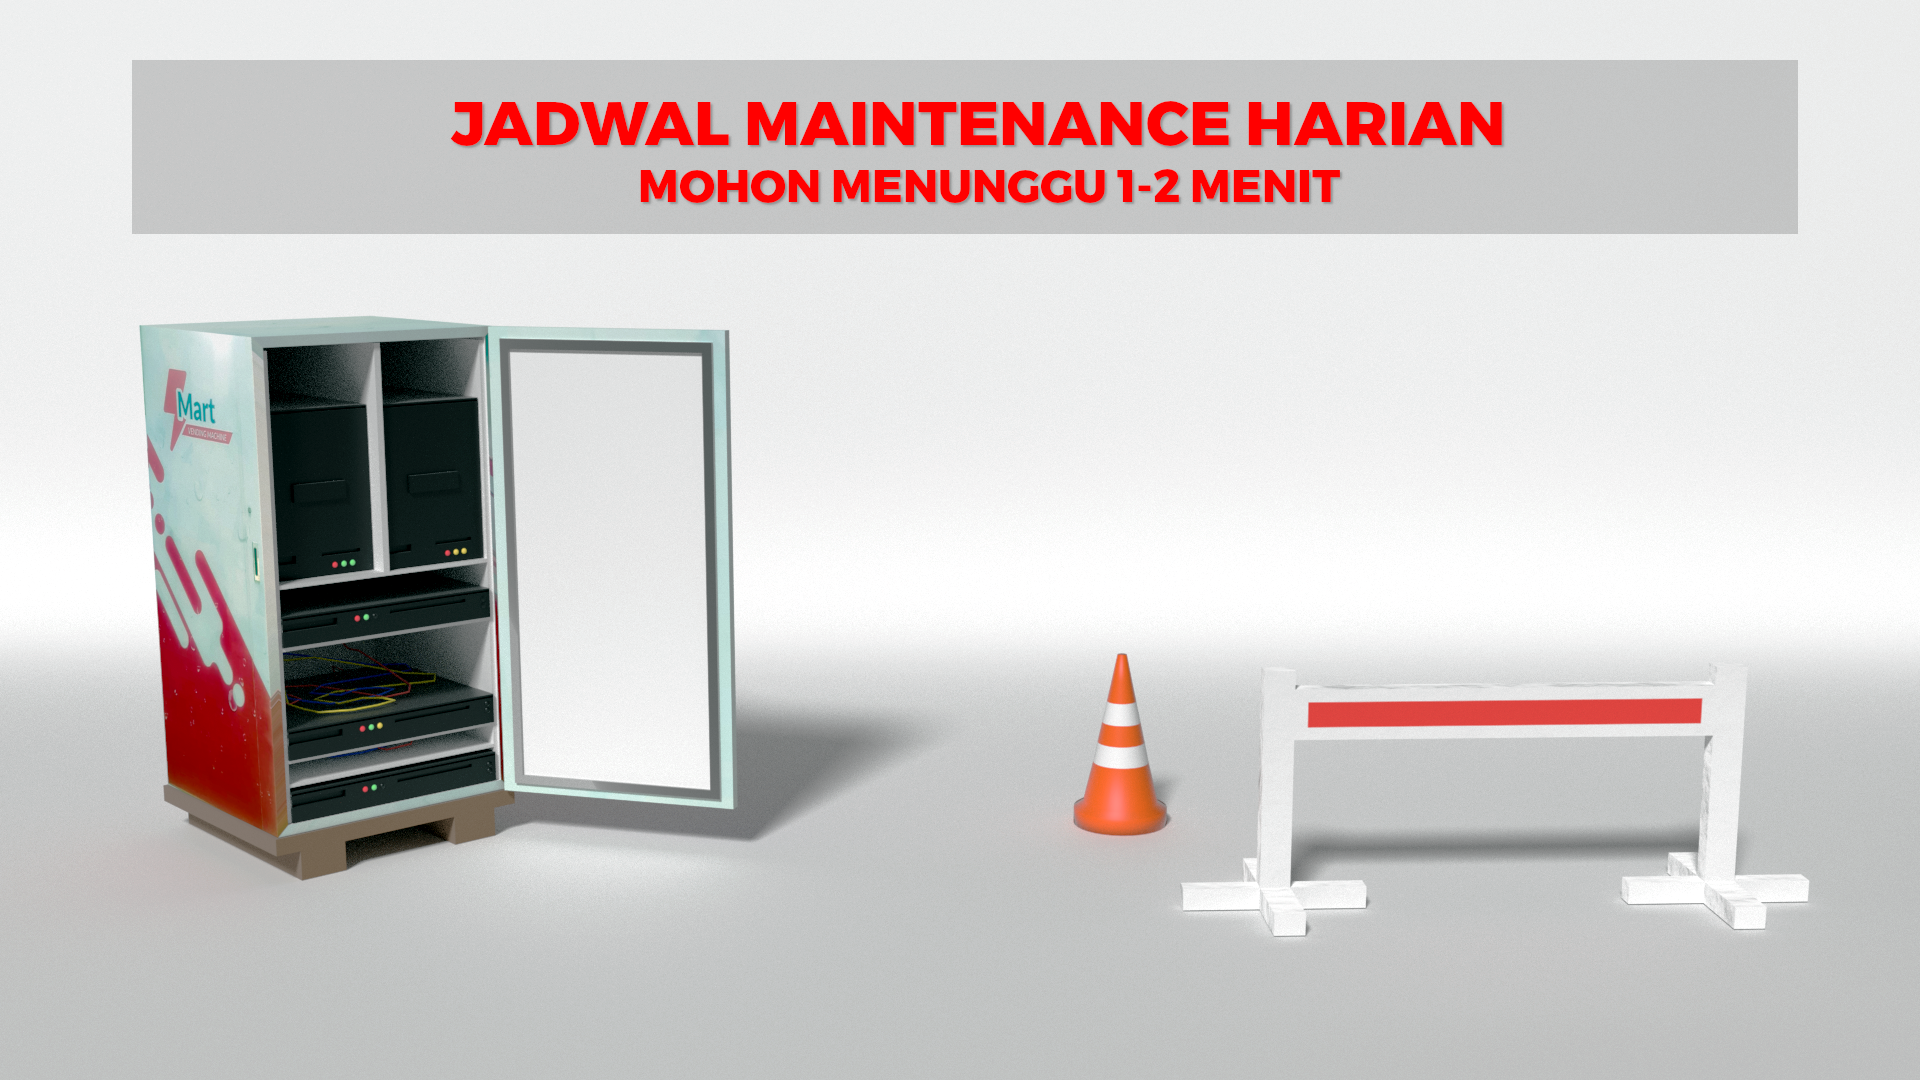
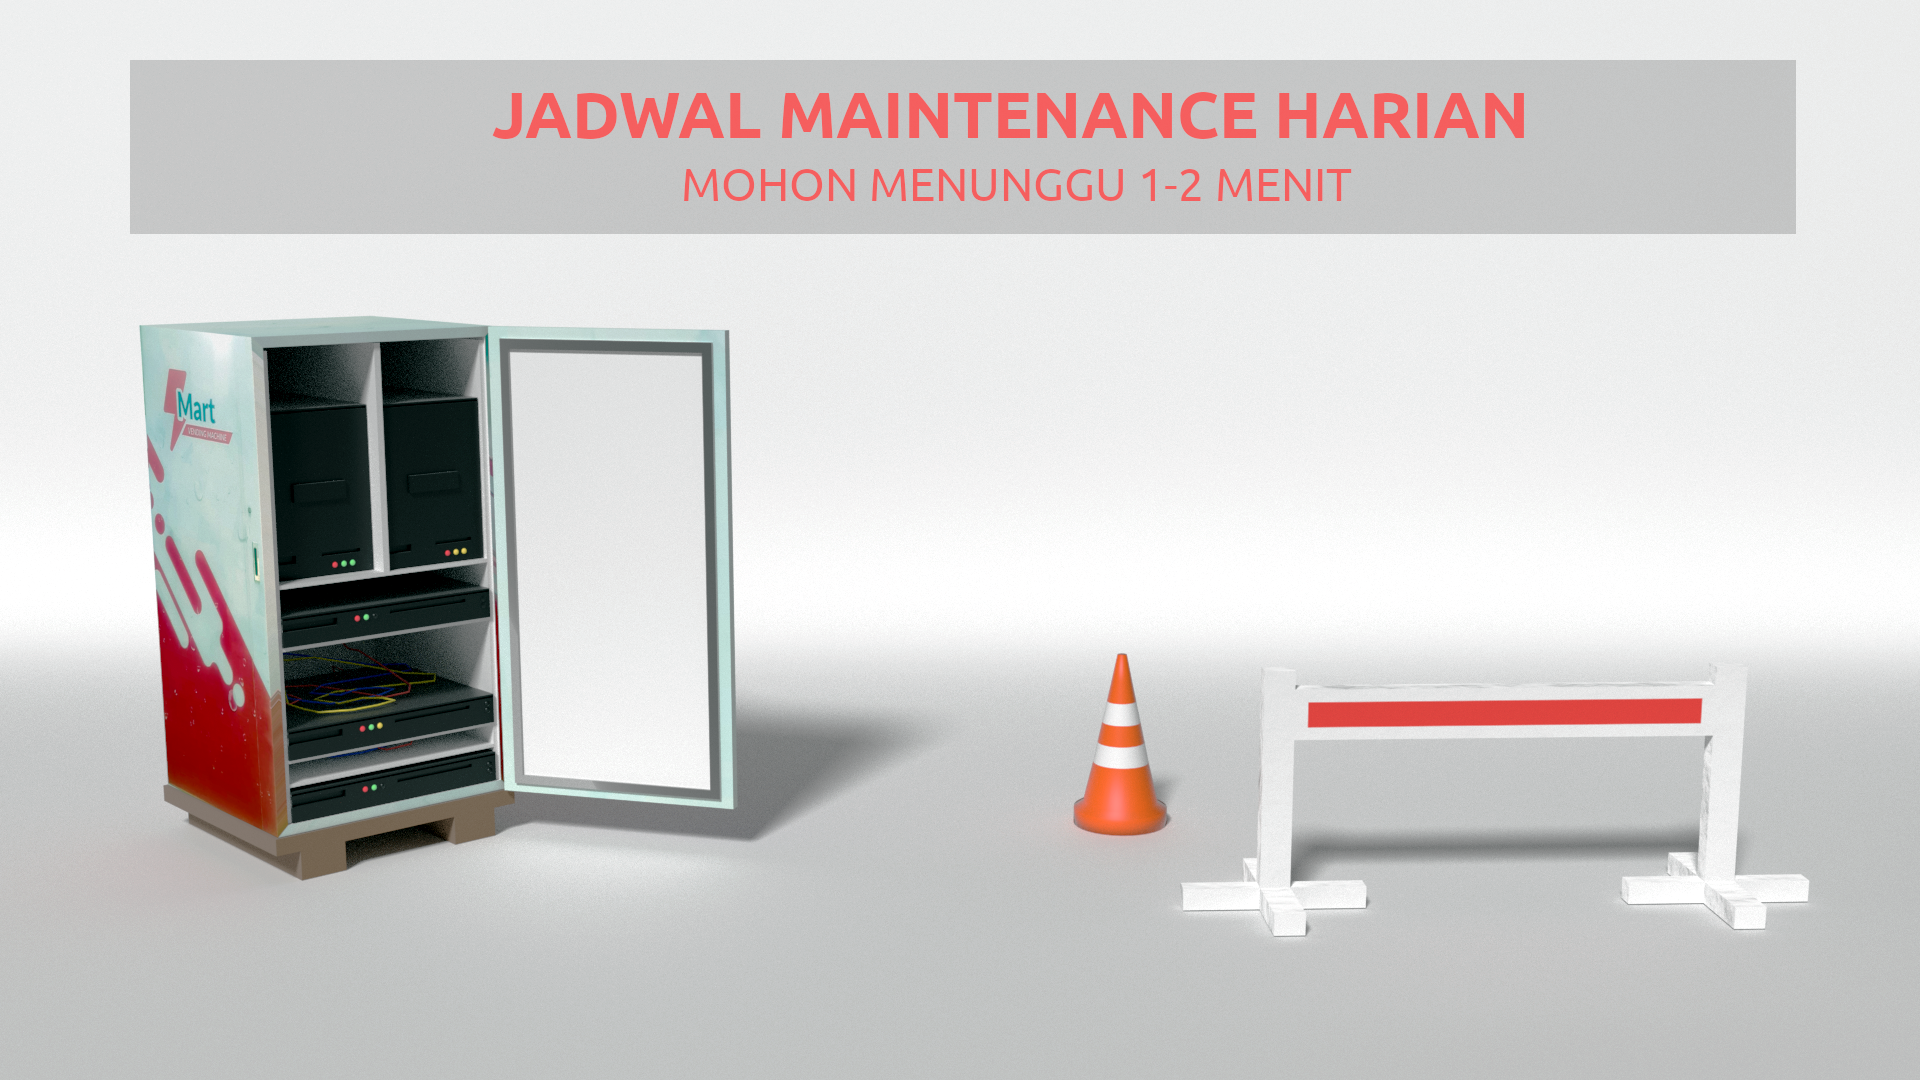
Remove sudo on shell scripts

Changed region(s): [[0.2188, 0.0611, 0.8125, 0.2139]]

diff --git a/py/svm-scheduled-restart.py b/py/svm-scheduled-restart.py
@@ -20,7 +20,7 @@ DELAY_IF_BUSY_SECOND = 300
 
 def is_ui_idle() -> bool:
     try:
-        if pathlib.Path(UI_STATE_FILE).read_text() == 'idle':
+        if pathlib.Path(UI_STATE_FILE).read_text().strip() == 'idle':
             return True
         else:
             return False
@@ -46,6 +46,7 @@ if __name__ == '__main__':
                 # Restart raspi
                 subprocess.call(['sudo', 'bash', '-c', 'reboot', 'now'])
 
+                break
             else:
                 time.sleep(DELAY_IF_BUSY_SECOND)
         else:
